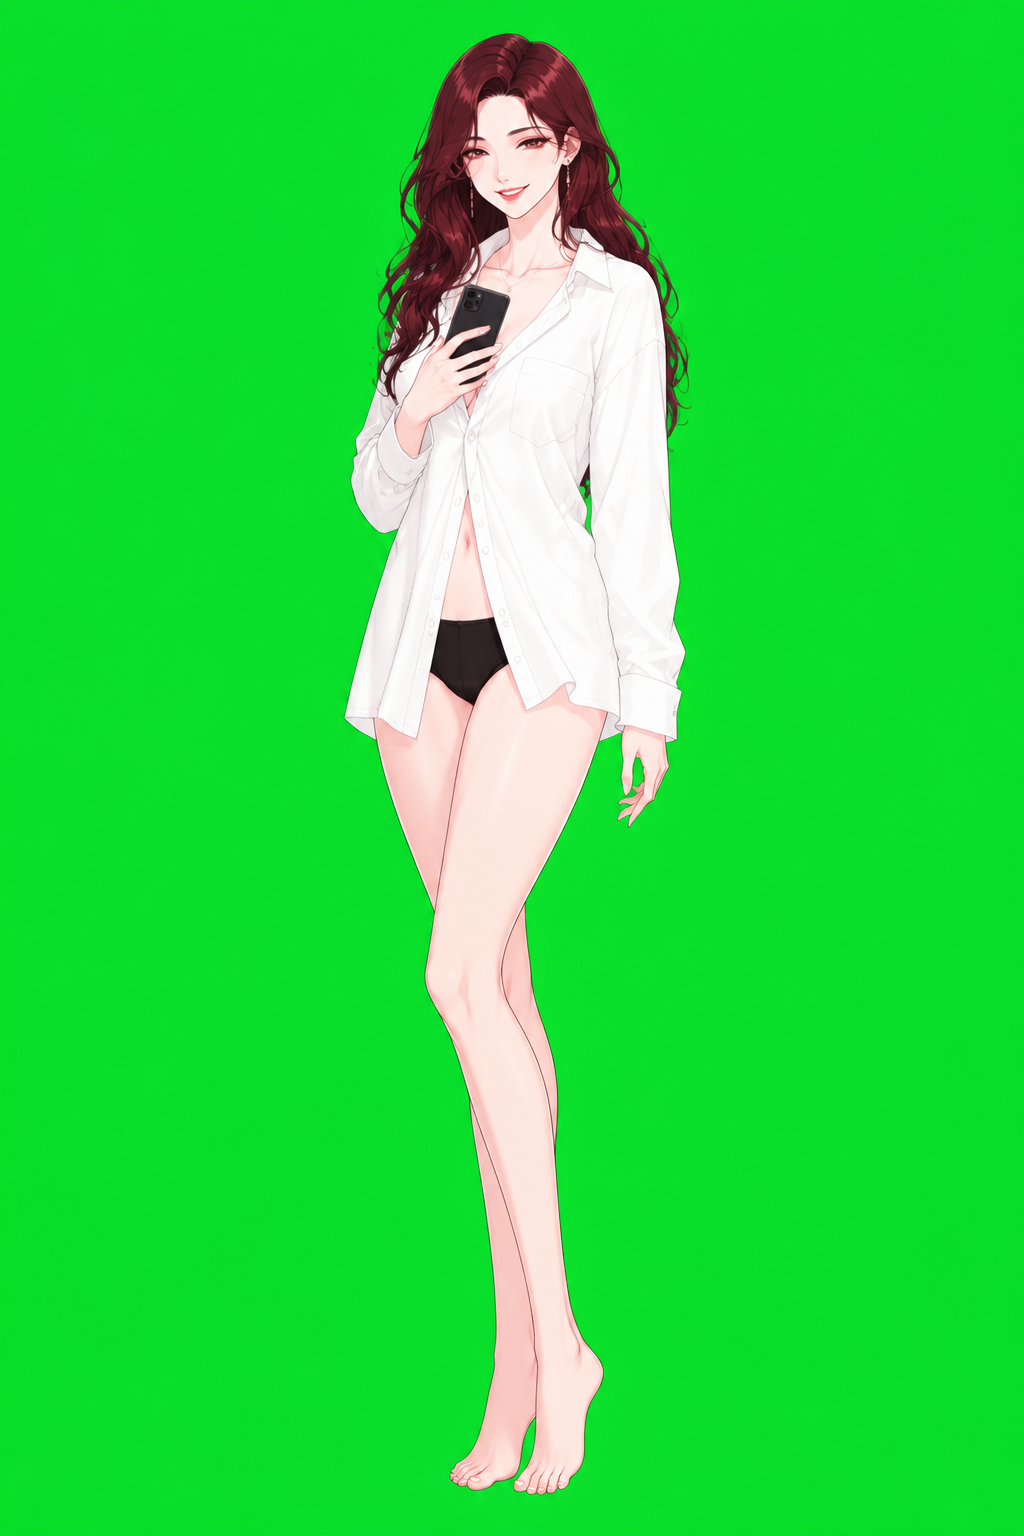
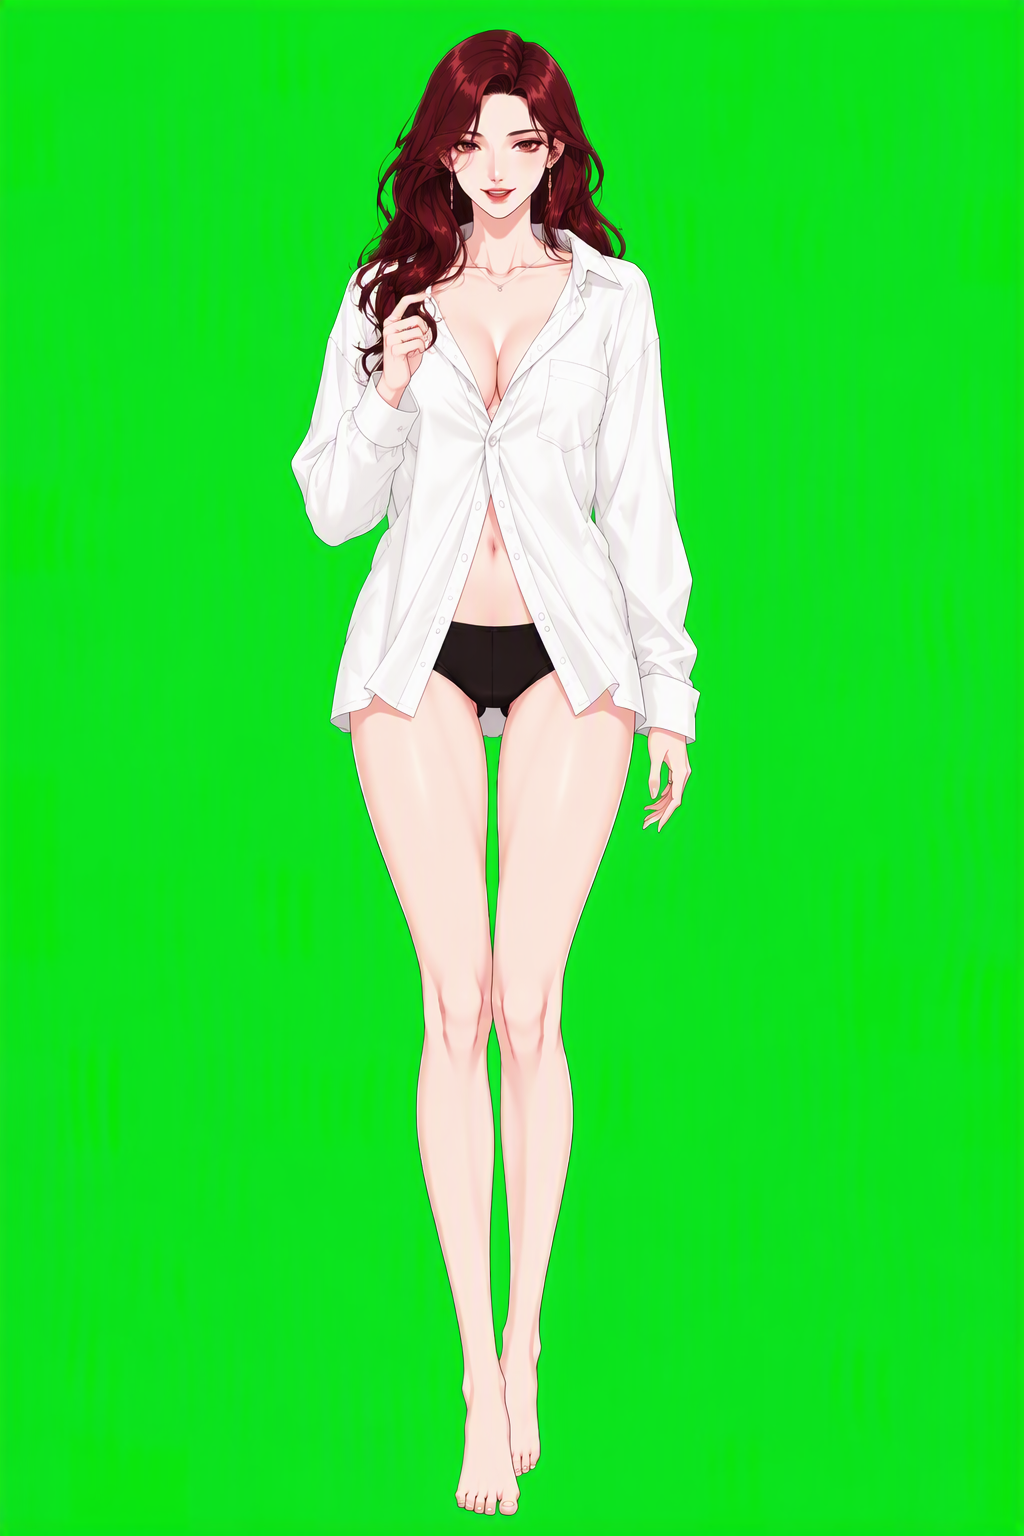
feat: depicts 边改向 Scene→IllusDesign + sec01 咖啡店场景 + 立绘清理
- depicts 边从 Scene→StandingIllustration 改为 Scene→IllusDesign（变体经 expands_to 跟踪），同步改 Schema(剧情.md/Schema总览.md) + chapter-dialoguer/plot-design/publisher/graph_repo+UI/test 5 处逻辑，14 条数据迁移去重为 4 条
- sec01 新增咖啡店场景（买咖啡撩店员→遇雨冲街口→车祸），含小夏角色 + 街角咖啡店地点/场景/背景图
- 立绘清理：P16PBEZd32 删旧疏离 stand(客套笑/婉拒) + 修保留3 description；OLBbajiuMS 衍生 sec01 商务休闲 3 变体
- sec00/sec01 着装 bug 修正（陆择拿回白衬衫，完整商务休闲）
- 顾盈玩味立绘重出（海王版 description，OfoxAI 首次过审）

diff --git a/55_dashboard/ui/page_chapter_overview.py b/55_dashboard/ui/page_chapter_overview.py
@@ -223,14 +223,17 @@ def _render_line(line):
 
 
 def _render_chapter_subgraph(g, sections):
-    """渲染 has_section→Section→contains→Scene→depicts→立绘缺口（含就绪计数）。"""
+    """渲染 has_section→Section→contains→Scene→depicts→IllusDesign→expands_to→立绘缺口（含就绪计数）。"""
     nodes_by_id = {n["id"]: n for n in g["nodes"]}
     scenes_of = {}   # sec_id -> [scene_id]
-    stands_of = {}   # scene_id -> [stand_id]
+    illus_of = {}    # scene_id -> [illus_id]   (via depicts)
+    stands_of = {}   # illus_id -> [stand_id]   (via expands_to)
     for e in g["edges"]:
         if e["type"] == "contains":
             scenes_of.setdefault(e["from"], []).append(e["to"])
         elif e["type"] == "depicts":
+            illus_of.setdefault(e["from"], []).append(e["to"])
+        elif e["type"] == "expands_to":
             stands_of.setdefault(e["from"], []).append(e["to"])
 
     stands = [n for n in g["nodes"] if n["label"] == "StandingIllustration"]
@@ -254,12 +257,18 @@ def _render_chapter_subgraph(g, sections):
                 st.caption("无场景（contains 边未建立）")
             for sn in scene_nodes:
                 _badge_line(sn.get("name") or sn["id"], sn["status"])
-                stand_ids = stands_of.get(sn["id"], [])
-                stand_nodes = [nodes_by_id[tid] for tid in stand_ids if tid in nodes_by_id]
-                for stn in stand_nodes:
-                    sfull = graph_repo.get_node(stn["id"]) or {}
-                    variant = sfull.get("variant_label", stn["id"])
-                    _badge_line(f"└ {variant}", stn["status"])
+                illus_ids = illus_of.get(sn["id"], [])
+                illus_nodes = [nodes_by_id[iid] for iid in illus_ids if iid in nodes_by_id]
+                for ind in illus_nodes:
+                    ifull = graph_repo.get_node(ind["id"]) or {}
+                    illus_name = ifull.get("name") or ind["id"]
+                    _badge_line(f"└ {illus_name}", ind["status"])
+                    stand_ids = stands_of.get(ind["id"], [])
+                    stand_nodes = [nodes_by_id[tid] for tid in stand_ids if tid in nodes_by_id]
+                    for stn in stand_nodes:
+                        sfull = graph_repo.get_node(stn["id"]) or {}
+                        variant = sfull.get("variant_label", stn["id"])
+                        _badge_line(f"   └ {variant}", stn["status"])
 
 
 def _badge_line(label, status):

diff --git a/55_dashboard/repo/graph_repo.py b/55_dashboard/repo/graph_repo.py
@@ -51,8 +51,8 @@ _ART_EDGES = "has_appearance|has_voice_style|has_costume|produces|outfit_for|exp
 # 场景美术链边类型（限定遍历范围，避免把叙事 Event/Character 拉进场景子图）
 _SCENE_EDGES = "has_scene|has_layer"
 
-# 剧情编排边类型（限定章节子图遍历：Chapter→has_section→Section→contains→Scene→depicts→StandingIllustration）
-_PLOT_EDGES = "has_section|contains|depicts"
+# 剧情编排边类型（限定章节子图遍历：Chapter→has_section→Section→contains→Scene→depicts→IllusDesign→expands_to→StandingIllustration）
+_PLOT_EDGES = "has_section|contains|depicts|expands_to"
 
 
 def get_character_graph(char_id):
@@ -112,14 +112,14 @@ def get_location_graph(loc_id):
 
 
 def get_chapter_graph(ch_id):
-    """取章节编排子图的全部节点与边（Chapter→has_section→Section→contains→Scene→depicts→StandingIllustration）。
+    """取章节编排子图的全部节点与边（Chapter→has_section→Section→contains→Scene→depicts→IllusDesign→expands_to→StandingIllustration）。
 
-    沿 contains/depicts 边遍历；depicts 指向的 StandingIllustration 一并纳入（供立绘缺口查看）。
-    StandingIllustration 的上游美术链（expands_to/ref_style）不在本子图，仅看其 status 是否就绪。
+    沿 has_section/contains/depicts/expands_to 边遍历；depicts 指向的 IllusDesign 及其 expands_to 立绘变体一并纳入（供立绘缺口查看）。
+    有向遍历（->）严格沿上游→下游，避免共享 IllusDesign 反向 depicts 蔓延到其他章 Scene 造成跨章子图污染。
     """
     with _session() as s:
         ids = [ch_id] + [r["id"] for r in s.run(
-            "MATCH (ch:Chapter)-[:%s*1..3]-(n) WHERE ch.id=$id RETURN DISTINCT n.id AS id" % _PLOT_EDGES,
+            "MATCH (ch:Chapter)-[:%s*1..4]->(n) WHERE ch.id=$id RETURN DISTINCT n.id AS id" % _PLOT_EDGES,
             id=ch_id,
         )]
         nodes = [

diff --git a/55_dashboard/tests/test_graph_repo.py b/55_dashboard/tests/test_graph_repo.py
@@ -157,6 +157,8 @@ def test_get_chapter_graph_uses_plot_edges_with_has_section(monkeypatch):
     first_cypher = sess.run.call_args_list[0][0][0]
     assert "has_section" in first_cypher
     assert "contains" in first_cypher and "depicts" in first_cypher
+    assert "expands_to" in first_cypher          # 变体枚举走 expands_to
+    assert "*1..4" in first_cypher                # 深度从 3 提到 4（多一跳 expands_to）
     assert "Chapter" in first_cypher
     assert sess.run.call_args_list[0][1]["id"] == "CH1"
     assert len(g["nodes"]) == 2

diff --git a/.claude/agents/plot-design.md b/.claude/agents/plot-design.md
@@ -38,12 +38,14 @@ Schema 文件：`00_init/Schema/剧情.md`（Chapter/Section + has_section/conta
 MATCH (ch:Chapter {id:'<章节ID>'})
 OPTIONAL MATCH (ch)-[:has_section]->(sec:Section)
 OPTIONAL MATCH (sec)-[c:contains]->(s:Scene)
-OPTIONAL MATCH (s)-[:depicts]->(stand:StandingIllustration)
+OPTIONAL MATCH (s)-[:depicts]->(illus:IllusDesign)
+OPTIONAL MATCH (illus)-[:expands_to]->(stand:StandingIllustration)
 OPTIONAL MATCH (char:Character)-[:has_appearance|has_voice_style|has_costume|produces|outfit_for|expands_to|ref_style*1..5]->(stand)
 RETURN DISTINCT ch.id AS ch_id, ch.title AS title, ch.chapter_no AS chapter_no, ch.status AS ch_status,
        sec.id AS sec_id, sec.section_no AS sec_no, sec.title AS sec_title,
        sec.outline_path AS outline_path, sec.script_path AS script_path, sec.status AS sec_status,
        c.order AS scene_order, s.id AS scene_id, s.name AS scene_name, s.status AS scene_status,
+       illus.id AS illus_id, illus.status AS illus_status,
        stand.id AS stand_id, stand.variant_label AS variant, stand.status AS stand_status,
        char.id AS char_id, char.name AS char_name
 ORDER BY sec.section_no, c.order, scene_name, variant
@@ -56,7 +58,7 @@ ORDER BY sec.section_no, c.order, scene_name, variant
 - 用 `OPTIONAL MATCH` 保证首次编排（has_section/contains/depicts 边尚未建立）也能返回 Chapter 本身。
 - 限定边类型的变长路径回溯立绘所属角色（复用美术边类型集 `has_appearance|has_voice_style|has_costume|produces|outfit_for|expands_to|ref_style`），既能明确范围，又能阻止遍历越界到叙事 Event / 其他角色。
 
-**写边严格按 Schema 方向（上游→下游）**，见 [00_init/Schema/剧情.md](00_init/Schema/剧情.md) 与 [00_init/Schema/角色美术.md](00_init/Schema/角色美术.md)。`has_section` 是 `Chapter→Section`；`contains` 是 `Section→Scene`（不再是 Chapter→Scene）；`depicts` 是 `Scene→StandingIllustration`；`StandingIllustration` 是 `expands_to`/`ref_style` 的**目标端**（入边），不是源——把方向写反会让 MATCH 静默返回空，进而误报「节点未创建」。
+**写边严格按 Schema 方向（上游→下游）**，见 [00_init/Schema/剧情.md](00_init/Schema/剧情.md) 与 [00_init/Schema/角色美术.md](00_init/Schema/角色美术.md)。`has_section` 是 `Chapter→Section`；`contains` 是 `Section→Scene`（不再是 Chapter→Scene）；`depicts` 是 `Scene→IllusDesign`（变体经 `IllusDesign-[:expands_to]->StandingIllustration` 枚举）；`StandingIllustration` 是 `expands_to`/`ref_style` 的**目标端**（入边），不是源——把方向写反会让 MATCH 静默返回空，进而误报「节点未创建」。
 
 ### 3. 决策与调度
 

diff --git a/06_角色美术/顾盈/顾盈-酒店晨离着装/立绘/玩味.md b/06_角色美术/顾盈/顾盈-酒店晨离着装/立绘/玩味.md
@@ -1,13 +1,9 @@
-# 顾盈立绘 · 玩味
+# 顾盈 立绘 - 玩味变体
 
-## 变体氛围
-
-成熟女性角色「玩味」表情变体立绘——笑意加深、主动示意的从容神态。情绪定位：轻松愉悦中带精明，主动示意、自信从容。
-
-## 提示词
-
-顾盈立绘，#00FF00 纯绿色背景，全身像，3/4 侧身，头部微倾向前呈现主动示意姿态，双眼弯成笑眼弧度、眸中带精明光彩，眉毛平展舒展眼角带笑意，嘴角上扬笑意加深露出齿白，一手举起手机至胸前位置、另一手自然垂放身侧，双脚重心微向前呈现稳定从容的站姿，神态自信从容。
+顾盈立绘，#00FF00纯色背景，全身像，正视镜头。嘴角上扬微笑露齿，神态笃定从容；目光直视镜头，眼神聚焦带笑意；眉毛平舒舒展；头部微向前倾。一手轻抬至胸前高度做手势，另一手自然垂放身侧；双脚重心稳定，从容自信的站姿。整体呈现成熟女性从容不迫、笃定自若的气质，笑意明显，神态自信。
 
 ## 画风
 
-Korean Flat-shading Illustration，Korean Cel-shading，韩系商业角色插画风格，动画风 60% + 写实风 40%，7.5 头身，写实度 6/10。干净色块平涂，分层平涂阴影，半硬边阴影过渡，单主光源，环境光弱，简洁点缀高光，皮肤轻微渐变过渡。细到中等深棕色线稿，外轮廓略粗、内部结构与面部线条极细。清爽高级色调，中性偏暖，中等饱和度，中等明暗对比。分辨率：1024 × 1536（竖屏 2:3）。
+Korean Flat-shading Illustration（韩系 Cel-shading 商业角色插画）。7.5头身。线稿细到中等粗细，外轮廓略粗、内部与面部线条较细，深棕近黑色，干净利落略柔和。平涂上色，干净色块，分层平涂阴影带半硬边与轻微渐变过渡，中等明暗对比；单主光源，弱环境光，高光简洁点缀，皮肤轻微渐变过渡。色彩清爽高级，中性偏暖色调，中等饱和度，色彩对比中等。动画风 60% + 写实风 40%，写实度 6/10。
+
+分辨率：1024 × 1536（竖屏 2:3）。

diff --git a/00_init/Schema/剧情.md b/00_init/Schema/剧情.md
@@ -72,12 +72,12 @@
 
 > 节编排引用其用到的 Scene（Scene 已由 `Location -[has_scene]-> Scene` 存在）。一个 Scene 可被多个 Section / 多个 Chapter 引用。同一 Scene 在一节内重复出现时 MERGE 合为一条边，完整序列以剧本（YAML/JSON）为权威。
 
-#### depicts — 场景引用立绘 `N:N`
+#### depicts — 场景引用立绘设计图 `N:N`
 
-- **方向**：`Scene → StandingIllustration`
+- **方向**：`Scene → IllusDesign`
 
 | 属性 | 中文 | 类型 | 必填 | 说明 |
 |------|------|------|------|------|
 | sync | 同步 | boolean | 否 | 默认 `false`（引用边，不级联） |
 
-> 表示「该场景的剧本需要此立绘变体可用」。`chapter-dialoguer` 据剧本 `say` 指令的 `<who>.<portrait>` 创建此边；若目标 StandingIllustration 不存在，chapter-dialoguer 兜底建节点（`status=0`）+ `expands_to`/`ref_style` 边。这些缺口节点由 `plot-design` agent 按 depicts 引用直调 `char-stand-designer <stand_id>` 推进出图——立绘调用已从 `char-design` 剥离至 `plot-design`（按需出图，避免为未被引用的变体浪费 API）。
+> 表示「该场景的剧本需要此着装的立绘可用」。`chapter-dialoguer` 据剧本 `say` 指令的 `<who>.<portrait>` 引用，按场景事件 wears（兜底取角色默认着装）选定 IllusDesign 后创建此边（同 Scene 同 IllusDesign 经 MERGE 去重）。**变体级缺口跟踪走 expands_to**：为每个被引用的变体兜底建 `StandingIllustration(status=0)` + `IllusDesign -[:expands_to]-> stand` + `LanguageStyle -[:ref_style]-> stand`。同一 IllusDesign 被多 Scene 引用时变体池共用（出图按 IllusDesign 级一次出多场景用）。`plot-design` agent 沿 `Scene -[:depicts]-> IllusDesign -[:expands_to]-> stand` 两跳枚举变体，对每个 `status≠11` 的 stand 直调 `char-stand-designer <stand_id>` 推进出图——立绘调用已从 `char-design` 剥离至 `plot-design`（按需出图，避免为未被引用的变体浪费 API）。

diff --git a/.claude/skills/chapter-dialoguer/SKILL.md b/.claude/skills/chapter-dialoguer/SKILL.md
@@ -174,11 +174,11 @@ MATCH (illus:IllusDesign {id:'<illus_id>'}), (stand:StandingIllustration {id:'<s
 MERGE (illus)-[r:expands_to]->(stand) SET r.sync = true, r.variant_label = '<variant_label>';
 MATCH (voice:LanguageStyle {id:'<voice_id>'}), (stand:StandingIllustration {id:'<stand_id>'})
 MERGE (voice)-[r:ref_style]->(stand) SET r.sync = true;
-MATCH (s:Scene {name:'<scene_name>'}), (stand:StandingIllustration {id:'<stand_id>'})
-MERGE (s)-[r:depicts]->(stand) SET r.sync = false;
+MATCH (s:Scene {name:'<scene_name>'}), (illus:IllusDesign {id:'<illus_id>'})
+MERGE (s)-[r:depicts]->(illus) SET r.sync = false;
 ```
 
-> `expands_to`/`ref_style` 边 `sync=true`（上游更新会级联重置该立绘）；`depicts` 边 `sync=false`（编排引用，不级联）。depicts 绑在 **Scene** 上（与 Section 无关），Scene 节点不消失则引用持续生效。这些 `status=0` 的立绘缺口节点是 **plot-design 后续按 depicts 直调 `char-stand-designer <stand_id>` 推进**的输入。
+> `expands_to`/`ref_style` 边 `sync=true`（上游更新会级联重置该立绘）；`depicts` 边 `sync=false`（编排引用，不级联）。depicts 绑在 **Scene→IllusDesign**（同 Scene 同 IllusDesign 经 MERGE 去重），变体级缺口由 expands_to 跟踪。Scene 节点不消失则引用持续生效。这些 `status=0` 的立绘缺口节点是 **plot-design 后续按 `Scene-[:depicts]->IllusDesign-[:expands_to]->stand` 两跳枚举，对 status≠11 的 stand 直调 `char-stand-designer <stand_id>` 推进**的输入。
 
 **status 写入**：定稿+校验通过 → `Section.status=30`（定稿待审，等 dashboard 终审 `approve`→`31`）；schema 失败/草稿 → `20`；创作质量 FAIL → 不写 status（见段 2 末尾）。
 

diff --git a/07_场景美术/街角咖啡店/街角咖啡店-点餐台/background/prompt.md b/07_场景美术/街角咖啡店/街角咖啡店-点餐台/background/prompt.md
@@ -1,0 +1,13 @@
+# 场景背景提示词
+
+## 用途与主体
+游戏对话背景图，街角咖啡店的点餐台区域（街角咖啡店-点餐台），清晨时分的小店前台，清晨清冷的街角小店氛围，咖啡机升腾的蒸汽与暖黄灯光交织，是陆择清晨宿醉后买咖啡清醒的小店。
+
+## 环境（远中近景）
+远景可以看到咖啡店深处的暖色木质墙面与悬挂的菜单板，中景是木质点餐台与正在喷出蒸汽的咖啡机，近景是台面前侧的陈设与暖光铺洒的台面。整体构图简洁，焦点聚于点餐台前方留白区域以承托角色立绘。
+
+## 光影
+主光源来自店内暖色吊灯，呈现暖黄色调；清晨的冷蓝光从街侧玻璃门透入，与暖黄灯光形成冷暖对比；咖啡机蒸汽在暖光中弥散成柔和光晕，阴影带冷蓝色调而非纯黑。
+
+## 风格
+明亮通透的暖黄主调搭配冷蓝阴影，空气透视使远处偏淡偏蓝；松散可见的厚涂笔触与轻微画布肌理，油画风格，明亮外光，手绘厚涂质感，游戏美术，简洁构图，适当模糊以突出角色立绘，无角色。

diff --git a/.claude/skills/chapter-publisher/SKILL.md b/.claude/skills/chapter-publisher/SKILL.md
@@ -41,8 +41,8 @@ ORDER BY sec.section_no;
 MATCH (ch:Chapter {id:'<chapter_id>'})-[:has_section]->(:Section)-[:contains]->(s:Scene)
 OPTIONAL MATCH (s)-[:has_layer]->(sl:SceneLayer {layer_type:'background'})
 RETURN DISTINCT s.name AS scene_name, sl.image_path AS bg_image, sl.status AS bg_status;
-// (4) 全章 depicts 立绘（深一跳：Chapter→Section→Scene→depicts→StandingIllustration + 角色回溯）
-MATCH (ch:Chapter {id:'<chapter_id>'})-[:has_section]->(:Section)-[:contains]->(sc:Scene)-[:depicts]->(stand:StandingIllustration)
+// (4) 全章 depicts 立绘（深两跳：Chapter→Section→Scene→depicts→IllusDesign→expands_to→StandingIllustration + 角色回溯）
+MATCH (ch:Chapter {id:'<chapter_id>'})-[:has_section]->(:Section)-[:contains]->(sc:Scene)-[:depicts]->(illus:IllusDesign)-[:expands_to]->(stand:StandingIllustration)
 MATCH (char:Character)-[:has_appearance|has_voice_style|has_costume|produces|outfit_for|expands_to|ref_style*1..5]->(stand)
 RETURN DISTINCT char.name AS char_name, stand.variant_label AS variant, stand.image_path AS image_path, stand.status AS status;
 ```

diff --git a/00_init/Schema总览.md b/00_init/Schema总览.md
@@ -77,7 +77,7 @@
 | **剧情** | | | | |
 | has_section | Chapter → Section | 1:N | ✅ | 章→节（组成关系，级联重做） |
 | contains | Section → Scene | N:M | ❌ | 节编排场景顺序 |
-| depicts | Scene → StandingIllustration | N:N | ❌ | 场景需要的立绘变体（按需出图门控） |
+| depicts | Scene → IllusDesign | N:N | ❌ | 场景需要的着装立绘（按需出图门控；变体经 expands_to 跟踪） |
 
 ---
 
@@ -130,5 +130,5 @@ flowchart LR
     Scene -->|"has_layer ✅ 1:N"| SceneLayer
     Chapter -->|"has_section ✅ 1:N"| Section
     Section -->|"contains ❌ N:M"| Scene
-    Scene -->|"depicts ❌ N:N"| StandingIllus
+    Scene -->|"depicts ❌ N:N"| IllusDesign
 ```
